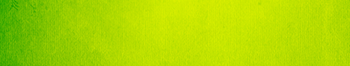
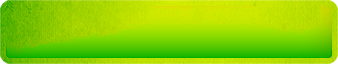
27

diff --git a/css/style5.css b/css/style5.css
@@ -1,2 +1,2 @@
-.clear{clear:both}.df-container{max-width:1210px;width:100%;margin:0 auto;text-align:center}.df-cap1{text-align:center;font-family:'Exo2-Bold';font-size:24px;color:#010101;letter-spacing:0.1px;margin-bottom:24px;text-transform:uppercase}.df-cap2{text-align:center;font-family:'Exo2-Regular';font-size:18px;color:#000000;line-height:25px;letter-spacing:0.2px;margin-bottom:37px;text-transform:uppercase}.df-must-all_view{display:inline-block;max-width:405px;margin-left:-12px;text-align:left}.df-view2{margin-top:-10px}.df-view2 .df-must__txt_view{margin-top:0}.df-must_view{vertical-align:top;display:inline-block;max-width:397px;width:100%;border-bottom:1px solid #e9e9e9;min-height:219px;padding:19px 0px 0 22px;margin-bottom:-3px}.df-last{border-right:none}.df-must__img_view{float:left;margin-right:10px;width:90px;vertical-align:top;margin:0 auto;margin-right:12px}.df-must__txt_view,.df-txt_view{vertical-align:top;float:left;font-size:15px;color:#000000;font-family:'Exo2-Regular';line-height:22px;letter-spacing:0.1px;max-width:265px;width:100%;margin-top:-7px;padding-left:1px}.df-must__txt_view strong,.df-txt_view strong{color:#bd040d;font-family:'Exo2-Bold'}.df-must-txt-box_view h4{font-family:'Exo2-Bold';font-size:18px;color:#000000;letter-spacing:0.2px;line-height:25px;text-align:center;margin:17px 0 20px 0}.df-must-txt-box_left_view{max-width:567px;width:100%;margin:0 auto;border:7px solid #f6f6f7;position:relative}.df-must-txt-box_left__img_view{height:320px;max-width:555px;width:100%;position:relative}.df-must-txt-box_left__img_view img{width:100%;height:auto;position:absolute;top:45%;left:50%;transform:translate(-50%, -50%)}.df-right,.df-left{position:absolute;right:7px;top:50%;transform:translate(0, -50%);background:url("../img/df-right.png") no-repeat center;width:50px;height:50px;border-radius:50%}.df-left{left:7px;background:url("../img/df-left.png") no-repeat center}.df-must-txt-box__right_view{max-width:580px;width:100%;margin:0 auto;padding:20px 10px;text-align:center}.df-must-txt-box__right_view p{font-size:15px;color:#000000;font-family:'Exo2-Regular';letter-spacing:0.1px;line-height:26px;text-align:left}.df-must-txt-box__right_view p strong{font-family:'Exo2-Bold'}.df-must-txt-box__right_view span{display:inline-block;text-align:center;font-size:15px;color:#000000;font-family:'Exo2-Bold';letter-spacing:0.2px;line-height:25px;margin:25px 0 20px 0}.df-link{font-size:22px;line-height:25px;font-family:'Exo2-Bold';color:#ffffff;display:inline-block;text-transform:uppercase;background-size:cover;border-radius:5px;padding:20px 10px 10px 10px;text-shadow:1px 1px #70aa0a,1px 1px #70aa0a,-1px -1px #70aa0a,-1px -1px #70aa0a,-1px 1px #70aa0a,1px -1px #70aa0a,-1px 1px #70aa0a,0px -1px #70aa0a,0px 0px 0px rgba(0,0,0,0.3),0px 0px 0px rgba(0,0,0,0.3),0px 0px 0px rgba(0,0,0,0.3),0px 0px 0px rgba(0,0,0,0.3);position:relative;z-index:100;min-height:90px}.df-mustlink{max-width:460px !important;padding:14px 0px 60px 0px;overflow:hidden;border-radius:7px}.df-not-end__leftbox_view{max-width:700px;width:100%;margin:0 auto;padding-left:10px;margin-top:30px}.df-not-end__block_view{display:block}.df-not-end__img1_view{width:100px;float:left;margin:0 auto}.df-txt_view{text-align:left;max-width:290px;margin-bottom:15px;float:left;width:100%;padding:10px 0px 0 6px}.df-txt_view span{font-size:14px;font-family:'Exo2-Bold';color:#000;line-height:22px;letter-spacing:0.2px;text-transform:uppercase;margin-bottom:8px;display:inline-block}.df-padiings{padding:0px 14px 0 7px}.df-padiings2{padding:19px 12px 0 7px}.df-not-end__rightbox_view{max-width:490px;width:100%;margin:0 auto;clear:both}.df-not-end__rightbox_view h4{font-size:15px;color:#3e3e3e;font-family:'Exo2-Bold';line-height:25px;text-transform:uppercase;letter-spacing:0.2px}.df-not-end__img_view{margin-bottom:25px;padding:11px;height:auto}.df-not-end__img_view div{margin:0 auto;max-width:471px;width:100%}.df-not-end__img_view div img{max-width:455px;width:100%;height:200px;top:8px;left:8px;padding:11px 17px}.df-not-end__h3_view{font-family:'Exo2-Bold';font-size:19px;line-height:22px;letter-spacing:0.2px;text-transform:uppercase;text-align:center;color:#bd040d;margin-bottom:20px}.df-padding{padding:25px 30px !important}.df-stop-give_view{background-color:#fff8ff}.df-stop-give__img_view{display:inline-block;max-width:310px;width:100%;height:220px}.df-stop-give__img_view img{width:100%;height:auto}.df-stop-give__txt_view{font-size:15px;color:#000000;line-height:24px;letter-spacing:0.2px;font-family:'Exo2-Regular';width:85%;display:inline-block;text-align:left;vertical-align:top}.df-stop-give__txt_view strong{font-family:'Exo2-Bold'}.df-stop-give__pluses_view{text-align:center;margin-top:10px;padding-left:4px}.df-stop-give__pluses_view h4{font-size:15px;color:#000000;line-height:23px;letter-spacing:0.2px;font-family:'Exo2-Bold';margin-bottom:19px}.df-stop-give__pluses_view span{font-size:15px;color:#000000;line-height:30px;letter-spacing:0.2px;text-align:left;font-family:'Exo2-Regular';display:block;margin-bottom:3px;padding-left:36px;background-image:url("../img/df-galka.png");background-repeat:no-repeat;background-position:left center}.df-stop-give__2blocks_view h3{font-size:13px;line-height:25px;color:#010101;font-family:'Exo2-Bold';letter-spacing:0.2px;text-transform:uppercase;margin:10px 0 -10px 0;text-align:center}.df-stop-give__L_view{max-height:440px;width:100%;height:100%;display:inline-block;margin-top:85px;margin-bottom:50px}.df-stop-give__L_view #demo img{max-width:570px;width:100%;height:440px}.df-shadow2{width:100%;opacity:0.5}.df-stop-give__R_view{display:inline-block;max-width:590px;width:100%;text-align:left;vertical-align:top;padding-left:10px;text-align:center;position:relative}.df-stop-give__R_view h3{font-size:22px;color:#010101;font-family:'Exo2-Bold';letter-spacing:0.2px;text-transform:uppercase;margin:0 0 26px 12px;text-align:left}.df-stop-give__R_view h3 strong{color:#bd040d}.df-stop-give__R_view span{display:block;text-align:left;font-family:'Exo2-Regular';padding-left:50px;background-image:url("../img/df-galka2.png");background-repeat:no-repeat;background-position:left top 2px;font-size:16px;color:#000000;line-height:29px;letter-spacing:0.2px;margin-bottom:11px}.df-link{margin-top:20px;font-size:25px;line-height:25px;max-width:390px;width:100%;display:inline-block;background-image:url("../img/df-link-shadow.png");background-repeat:no-repeat;background-position:center top;border:none;background-color:transparent}.df-lookcap{padding:0 20px;line-height:52px;margin-bottom:31px}.df-lookcap strong{color:#bd040d}.df-look_view{text-align:left;padding:0px 20px 0 22px;margin-bottom:21px}.df-look__img_view{font-size:15px;color:#000000;line-height:25px;letter-spacing:0.2px;font-family:'Exo2-Regular'}.df-look__img_view strong{font-family:'Exo2-Bold'}.df-look__img_view img{display:inline-block;margin-right:10px;width:20px;height:21px;vertical-align:text-bottom}.df-all{text-align:left}.df-shadow-B{width:100%;height:70px;opacity:0.5}.df-video_view{max-width:625px;width:100%;height:375px;display:inline-block;padding:0 20px;position:relative;max-height:375px}.df-video_view h3{margin:36px 0 26px 12px;font-size:22px;color:#010101;font-family:'Exo2-Bold';letter-spacing:0.2px;text-transform:uppercase;margin:36px 0 26px 12px;text-align:left}.df-video_view h3 strong{color:#bd040d}.df-shadow3{margin:20px 0 10px 0;max-width:625px;width:100%;opacity:0.5}.df-look-R{max-width:500px;display:inline-block;position:relative}.df-look-R h3{margin-bottom:37px}.df-look-R span{margin-left:10px}.df-left-shadow{position:absolute;left:-57px;top:0px;display:none}.df-marg2{margin-top:30px}.df-messege{max-width:970px;width:100%;text-align:center;margin:0 auto;background-image:url("../img/df-popupbg2.jpg");background-repeat:no-repeat;background-position:center top;background-size:cover;border:4px solid #9a7715;padding:90px 0;position:relative}.df-messege h2{text-transform:uppercase;font-size:24px;color:#1e1601;margin-bottom:10px}.df-messege span{font-size:17px;color:#1e1601;line-height:25px;letter-spacing:0.2px;font-family:'Exo2-Regular'}.df-cloself{position:absolute;right:10px;top:10px;width:17px;height:17px;cursor:pointer}.df-call{max-width:977px;width:100%;margin:0 auto;border:1px solid #e2e2e2;text-align:center;display:none}.df-call__L{max-width:600px;width:100%;display:inline-block;padding:45px 10px 29px 10px;background-color:#f6f6f7;vertical-align:top}.df-call__L h3{font-size:23px;color:#1e1601;line-height:25px;letter-spacing:0.2px;font-family:'Exo2-Bold';text-transform:uppercase;margin-bottom:25px}.df-call__L .dfspan11{font-size:19px;color:#1e1601;line-height:25px;letter-spacing:0.2px;font-family:'Exo2-Regular';display:inline-block;margin-bottom:25px}.df-call__L .dfspan11 strong{font-size:25px;color:#bd040d;font-family:'Exo2-Bold'}.df-call__img{border:5px solid #e4e4e4;max-width:533px;height:430px;padding-top:35px;width:100%;text-align:center;background-color:#fff}.df-call__img img{display:inline-block}.df-call__R{max-width:370px;width:100%;display:inline-block;padding:20px 0 19px 0px}.df-call__R input[type="text"],.df-call__R input[type="email"]{border:2px solid #e4e4e4;max-width:333px;width:100%;min-height:43px;display:inline-block;font-size:18px;color:#b9b9b9;padding-left:15px;margin-bottom:3px;font-family:'Exo2-Regular'}.df-call-span,.df-call-span2{font-size:12px;color:#1e1601;line-height:25px;letter-spacing:0.2px;font-family:'Exo2-Bold';text-transform:uppercase;display:inline-block;margin-bottom:24px;margin-left:17px;text-align:center}.df-linkpopup{margin-top:20px;font-size:25px;line-height:23px;color:#616161;text-transform:uppercase;max-width:390px;font-family:'Exo2-Bold';width:100%;display:inline-block;background-image:url("../img/df-linkpopup.png");background-repeat:no-repeat;background-position:center top;text-align:center;padding:20px 0 40px 0}.df-call-span2{font-size:15px;font-family:'Exo2-Regular';text-transform:none}.df-poplink{padding:17px 0px 40px 0 !important;background-size:contain;text-align:center;margin-left:0px !important;z-index:1}.az-select{border:2px solid #cbd1d6;position:relative;cursor:pointer;font-size:18px;color:#fff;line-height:25px;letter-spacing:0.2px;background-color:#c2c2c2;max-width:333px;width:100%;min-height:43px;font-family:'Exo2-Regular';margin:0 auto;margin-bottom:3px}.az-select select{height:36px;width:100%;border:none;background:transparent;outline:none;padding:0 15px;letter-spacing:0.02em;font-family:'Exo2-Regular';cursor:pointer;-webkit-appearance:none;-moz-appearance:none}.az-select select::-ms-expand{display:none}.az-options{display:none;top:calc(100% + 2px);left:-2px;width:calc(100% + 4px);position:absolute;background-color:#c2c2c2;z-index:6}div[data-val]{font-size:14px;font-family:'Exo2-Regular';color:#fff;padding:0 15px;line-height:30px;letter-spacing:0.02em;cursor:pointer;text-align:left}div[data-val]:hover{background:rgba(255,255,255,0.2)}.df-buy-product{width:122px;height:37px;padding:5px 5px 5px 5px;font-size:19px;font-family:'Exo2-Regular';margin-bottom:4px;display:table;border:1px solid #1e1601;display:inline-block;vertical-align:top}.df-buy-product .df-number{text-align:center;border-radius:3px;display:inline-block;display:table-cell;vertical-align:middle;width:45%;color:#1e1601;transition:background 0.5s;vertical-align:middle;user-select:none;-moz-user-select:none;-o-user-select:none}.df-buy-product .df-number span{color:transparent;padding:0 1px;cursor:pointer;vertical-align:top}.df-buy-product .df-number input{outline:none;border:none;width:20px;text-align:center;background:none;width:70px}.left{background-image:url("../img/df-leftpop.png");background-position:left center;background-repeat:no-repeat}.right{background-image:url("../img/df-rightpop.png");background-position:right center;background-repeat:no-repeat}.df-contact{border:1px solid #e2e2e2;max-width:470px;background-size:cover;text-align:center;max-width:472px;width:100%;margin:0 auto}.df-contact h2{text-transform:uppercase;font-size:24px;color:#1e1601;margin-bottom:10px}.df-contact span{text-transform:uppercase;font-size:21px;color:#1e1601;line-height:25px;letter-spacing:0.2px;font-family:'Exo2-Regular'}.df-cont{background-image:url("../img/df-popupbg3.jpg");background-repeat:no-repeat;background-position:center top;background-size:cover;padding:27px 0;position:relative}.df-inputscont{max-width:100%;padding:0 10px}.df-inputscont input{width:100%;max-width:unset;margin:0 0 3px 0}.df-question textarea{border:2px solid #e4e4e4;width:100%;font-size:18px;color:#b9b9b9;padding-left:15px;font-family:'Exo2-Regular';resize:none}.df-otziv{max-width:975px;width:100%;margin:0 auto;text-align:center;border:1px solid #e2e2e2}.df-otziv .df-messege{border:none;max-width:unset;background-size:cover;margin-bottom:15px}.df-inpoz{max-width:445px;width:100%;display:inline-block}.df-inpoz input{border:2px solid #e4e4e4;width:100%;min-height:43px;display:inline-block;font-size:18px;color:#b9b9b9;padding-left:15px;margin-bottom:3px;font-family:'Exo2-Regular'}.df-Rbox{max-width:465px;width:100%;display:inline-block}.df-otziv-span{vertical-align:middle;display:inline-block}.df-firstspan{font-size:18px;color:#6c6c6c;font-family:'Exo2-Regular';letter-spacing:0.2px;line-height:25px;display:inline-block;margin-bottom:10px}.df-littleinp,.df-littleinp2{border:2px solid #e4e4e4;width:150px;min-height:43px;display:inline-block;font-size:18px;color:#b9b9b9;padding-left:15px;margin-bottom:3px;font-family:'Exo2-Regular'}.df-littleinp2{width:285px}.df-confident{max-width:975px;width:100%;margin:0 auto;text-align:center;border:1px solid #e2e2e2}.df-confident .df-messege{padding:20px 0 15px 0;min-height:unset;max-width:unset;border:none;max-width:unset;background-size:cover;margin-bottom:15px}.df-confid-txt{text-align:left;padding:15px 20px 0 20px}.df-confid-txt p{font-size:18px;color:#818181;font-family:'Exo2-Regular';letter-spacing:0.2px;line-height:25px;margin-bottom:22px}.df-viski{max-width:975px;width:100%;margin:0 auto;text-align:center;border:1px solid #e2e2e2;padding-bottom:30px}.df-viski .df-messege{padding:20px 0 15px 0;min-height:unset;max-width:unset;border:none;max-width:unset;background-size:cover;margin-bottom:25px}.df-viski-L{max-width:325px;height:325px;vertical-align:top;width:100%;border:3px solid #c7c7c7;display:inline-block}.df-viski-R{max-width:590px;width:100%;display:inline-block;font-size:18px;color:#818181;font-family:'Exo2-Regular';letter-spacing:0.2px;line-height:25px;text-align:left;padding:0 10px 0 10px}.df-viski-R p strong{font-size:20px;color:#bf1b1b;text-transform:uppercase;font-family:'Exo2-Bold'}.df-viski-R span{display:block;background-image:url("../img/df-tire.png");background-repeat:no-repeat;background-position:left top 13px;padding-left:17px}#mask{position:absolute;left:0;top:0;z-index:9000;background-color:#000;width:100%;height:100%;display:none}.window{display:none;position:absolute;left:0;top:0;z-index:9998;background:white}.window .form-wrap-main{border:1px solid grey;background:#fff;border-radius:10px;padding:10px}.df-thankstovar{text-align:center}.df-thankstovar h2{font-size:34px;line-height:74px;color:#000000;text-transform:uppercase;margin:10px 0}.df-tovar{max-width:570px;width:100%;display:inline-block;padding:15px 10px;border:2px solid #dcdcdc;text-align:center;margin-top:15px}.df-tovar__img{width:160px;height:160px;display:inline-block;border:2px solid #c8944b}.df-tovar__txt{font-family:'Exo2-Regular';font-size:14px;line-height:20px;color:#000000;max-width:370px;display:inline-block;vertical-align:top;padding-left:12px;text-align:left}.df-butoon{width:340px;min-height:65px;position:relative;margin:100px 0;text-align:center;border:3px solid rgba(255,255,255,0.2);border-image:url("../img/dfbgfon.png") 2 round round;border-radius:10px;overflow:hidden}.df-butlink{position:absolute;z-index:100;left:0;top:0}.df-imgbutoon{width:100%;height:auto;position:absolute;display:inline-block;z-index:1;left:0;top:0}@media only screen and (min-width: 480px){.df-not-end__img1_view{float:left}.df-txt_view{float:left;max-width:590px;margin-bottom:0px}}@media only screen and (min-width: 768px){.df-not-end__img_view{background-color:white;background-image:url("../img/df-shadow.png");background-repeat:no-repeat;background-position:center center;background-size:cover}.df-not-end__img_view div{height:215px;position:relative}.df-not-end__img_view div img{position:absolute}.df-padding{padding:19px 0 25px 0px !important}.df-shadow2,.df-shadow3,.df-shadow-B{display:none}.df-stop-give__img_view{width:175px;height:130px}.df-stop-give__txt_view{padding:3px 20px 0 23px}.df-stop-give__pluses_view{margin-top:-17px}.df-stop-give__2blocks_view{text-align:left}.df-stop-give__2blocks_view h3{font-size:22px;margin:31px 0 42px 12px;text-align:left}.df-stop-give__L_view{margin-left:-6px;max-width:570px}.df-stop-give__R_view{padding-left:39px;background-color:#fbfbfb}.df-stop-give__R_view h3{margin:36px 0 26px 12px}.df-messege{background-image:url("../img/df-popupbg.jpg");padding:40px 0 40px 0;background-size:unset}.df-messege h2{font-size:43px}.df-messege span{font-size:23px}.df-call__L{padding:45px 0 29px 27px}.az-select{margin:0 0 3px 27px}.df-Rbox{margin-left:30px}.az-select{margin:0 0 3px 19px}.df-cont{background-size:unset}.df-viski-R{margin-left:10px}}@media only screen and (min-width: 992px){.df-cap1{font-size:36px}.df-link{padding:17px 30px 45px 30px;margin-left:19px}.df-mustlink{padding:25px 30px 70px 30px}.df-must-txt-box_left_view{float:left}.df-must-txt-box__right_view{float:left;padding:20px 0 0 35px}.df-must-txt-box__right_view span{margin:25px 0 16px 0;padding:0 50px 0 61px}.df-must-txt-box_view h4{margin:27px 0px 5px 61px}.df-must-all_view{border-right:1px solid #e9e9e9}.df-not-end__leftbox_view{float:left}.df-not-end__rightbox_view{clear:none;float:left;margin:-13px 0 0 -11px}.df-txt_view{padding:10px 14px 0 6px}.df-video_view{margin:25px 17px 0 25px;padding:0}.df-look-R{margin-top:25px}.df-left-shadow{display:block}}@media only screen and (min-width: 1248px){.df-must-txt-box_left_view:before,.df-must-txt-box_left_view:after{z-index:-1;position:absolute;content:"";bottom:5px;left:15px;width:50%;right:0;top:96%;max-width:555px;background:#fff;box-shadow:-20px -3px 40px 9px #777;transform:rotate(-5deg)}.df-must-txt-box_left_view:after{transform:rotate(5deg);right:10px;left:auto;box-shadow:20px -3px 40px 9px #777}.df-thankstovar .df-tovar:last-child{margin-left:30px;margin-top:0px}}
+.clear{clear:both}.df-container{max-width:1210px;width:100%;margin:0 auto;text-align:center}.df-cap1{text-align:center;font-family:'Exo2-Bold';font-size:24px;color:#010101;letter-spacing:0.1px;margin-bottom:24px;text-transform:uppercase}.df-cap2{text-align:center;font-family:'Exo2-Regular';font-size:18px;color:#000000;line-height:25px;letter-spacing:0.2px;margin-bottom:37px;text-transform:uppercase}.df-must-all_view{display:inline-block;max-width:405px;margin-left:-12px;text-align:left}.df-view2{margin-top:-10px}.df-view2 .df-must__txt_view{margin-top:0}.df-must_view{vertical-align:top;display:inline-block;max-width:397px;width:100%;border-bottom:1px solid #e9e9e9;min-height:219px;padding:19px 0px 0 22px;margin-bottom:-3px}.df-last{border-right:none}.df-must__img_view{float:left;margin-right:10px;width:90px;vertical-align:top;margin:0 auto;margin-right:12px}.df-must__txt_view,.df-txt_view{vertical-align:top;float:left;font-size:15px;color:#000000;font-family:'Exo2-Regular';line-height:22px;letter-spacing:0.1px;max-width:265px;width:100%;margin-top:-7px;padding-left:1px}.df-must__txt_view strong,.df-txt_view strong{color:#bd040d;font-family:'Exo2-Bold'}.df-must-txt-box_view h4{font-family:'Exo2-Bold';font-size:18px;color:#000000;letter-spacing:0.2px;line-height:25px;text-align:center;margin:17px 0 20px 0}.df-must-txt-box_left_view{max-width:567px;width:100%;margin:0 auto;border:7px solid #f6f6f7;position:relative}.df-must-txt-box_left__img_view{height:320px;max-width:555px;width:100%;position:relative}.df-must-txt-box_left__img_view img{width:100%;height:auto;position:absolute;top:45%;left:50%;transform:translate(-50%, -50%)}.df-right,.df-left{position:absolute;right:7px;top:50%;transform:translate(0, -50%);background:url("../img/df-right.png") no-repeat center;width:50px;height:50px;border-radius:50%}.df-left{left:7px;background:url("../img/df-left.png") no-repeat center}.df-must-txt-box__right_view{max-width:580px;width:100%;margin:0 auto;padding:20px 10px;text-align:center}.df-must-txt-box__right_view p{font-size:15px;color:#000000;font-family:'Exo2-Regular';letter-spacing:0.1px;line-height:26px;text-align:left}.df-must-txt-box__right_view p strong{font-family:'Exo2-Bold'}.df-must-txt-box__right_view span{display:inline-block;text-align:center;font-size:15px;color:#000000;font-family:'Exo2-Bold';letter-spacing:0.2px;line-height:25px;margin:25px 0 20px 0}.df-link{font-size:22px;line-height:25px;font-family:'Exo2-Bold';color:#ffffff;display:inline-block;text-transform:uppercase;background-size:cover;border-radius:5px;padding:20px 10px 10px 10px;text-shadow:1px 1px #70aa0a,1px 1px #70aa0a,-1px -1px #70aa0a,-1px -1px #70aa0a,-1px 1px #70aa0a,1px -1px #70aa0a,-1px 1px #70aa0a,0px -1px #70aa0a,0px 0px 0px rgba(0,0,0,0.3),0px 0px 0px rgba(0,0,0,0.3),0px 0px 0px rgba(0,0,0,0.3),0px 0px 0px rgba(0,0,0,0.3);position:relative;z-index:100;min-height:90px}.df-mustlink{max-width:460px !important;padding:14px 0px 60px 0px;overflow:hidden;border-radius:7px}.df-not-end__leftbox_view{max-width:700px;width:100%;margin:0 auto;padding-left:10px;margin-top:30px}.df-not-end__block_view{display:block}.df-not-end__img1_view{width:100px;float:left;margin:0 auto}.df-txt_view{text-align:left;max-width:290px;margin-bottom:15px;float:left;width:100%;padding:10px 0px 0 6px}.df-txt_view span{font-size:14px;font-family:'Exo2-Bold';color:#000;line-height:22px;letter-spacing:0.2px;text-transform:uppercase;margin-bottom:8px;display:inline-block}.df-padiings{padding:0px 14px 0 7px}.df-padiings2{padding:19px 12px 0 7px}.df-not-end__rightbox_view{max-width:490px;width:100%;margin:0 auto;clear:both}.df-not-end__rightbox_view h4{font-size:15px;color:#3e3e3e;font-family:'Exo2-Bold';line-height:25px;text-transform:uppercase;letter-spacing:0.2px}.df-not-end__img_view{margin-bottom:25px;padding:11px;height:auto}.df-not-end__img_view div{margin:0 auto;max-width:471px;width:100%}.df-not-end__img_view div img{max-width:455px;width:100%;height:200px;top:8px;left:8px;padding:11px 17px}.df-not-end__h3_view{font-family:'Exo2-Bold';font-size:19px;line-height:22px;letter-spacing:0.2px;text-transform:uppercase;text-align:center;color:#bd040d;margin-bottom:20px}.df-padding{padding:25px 30px !important}.df-stop-give_view{background-color:#fff8ff}.df-stop-give__img_view{display:inline-block;max-width:310px;width:100%;height:220px}.df-stop-give__img_view img{width:100%;height:auto}.df-stop-give__txt_view{font-size:15px;color:#000000;line-height:24px;letter-spacing:0.2px;font-family:'Exo2-Regular';width:85%;display:inline-block;text-align:left;vertical-align:top}.df-stop-give__txt_view strong{font-family:'Exo2-Bold'}.df-stop-give__pluses_view{text-align:center;margin-top:10px;padding-left:4px}.df-stop-give__pluses_view h4{font-size:15px;color:#000000;line-height:23px;letter-spacing:0.2px;font-family:'Exo2-Bold';margin-bottom:19px}.df-stop-give__pluses_view span{font-size:15px;color:#000000;line-height:30px;letter-spacing:0.2px;text-align:left;font-family:'Exo2-Regular';display:block;margin-bottom:3px;padding-left:36px;background-image:url("../img/df-galka.png");background-repeat:no-repeat;background-position:left center}.df-stop-give__2blocks_view h3{font-size:13px;line-height:25px;color:#010101;font-family:'Exo2-Bold';letter-spacing:0.2px;text-transform:uppercase;margin:10px 0 -10px 0;text-align:center}.df-stop-give__L_view{max-height:440px;width:100%;height:100%;display:inline-block;margin-top:85px;margin-bottom:50px}.df-stop-give__L_view #demo img{max-width:570px;width:100%;height:440px}.df-shadow2{width:100%;opacity:0.5}.df-stop-give__R_view{display:inline-block;max-width:590px;width:100%;text-align:left;vertical-align:top;padding-left:10px;text-align:center;position:relative}.df-stop-give__R_view h3{font-size:22px;color:#010101;font-family:'Exo2-Bold';letter-spacing:0.2px;text-transform:uppercase;margin:0 0 26px 12px;text-align:left}.df-stop-give__R_view h3 strong{color:#bd040d}.df-stop-give__R_view span{display:block;text-align:left;font-family:'Exo2-Regular';padding-left:50px;background-image:url("../img/df-galka2.png");background-repeat:no-repeat;background-position:left top 2px;font-size:16px;color:#000000;line-height:29px;letter-spacing:0.2px;margin-bottom:11px}.df-link{margin-top:20px;font-size:25px;line-height:25px;max-width:390px;width:100%;display:inline-block;background-image:url("../img/df-link-shadow.png");background-repeat:no-repeat;background-position:center top;border:none;background-color:transparent}.df-lookcap{padding:0 20px;line-height:52px;margin-bottom:31px}.df-lookcap strong{color:#bd040d}.df-look_view{text-align:left;padding:0px 20px 0 22px;margin-bottom:21px}.df-look__img_view{font-size:15px;color:#000000;line-height:25px;letter-spacing:0.2px;font-family:'Exo2-Regular'}.df-look__img_view strong{font-family:'Exo2-Bold'}.df-look__img_view img{display:inline-block;margin-right:10px;width:20px;height:21px;vertical-align:text-bottom}.df-all{text-align:left}.df-shadow-B{width:100%;height:70px;opacity:0.5}.df-video_view{max-width:625px;width:100%;height:375px;display:inline-block;padding:0 20px;position:relative;max-height:375px}.df-video_view h3{margin:36px 0 26px 12px;font-size:22px;color:#010101;font-family:'Exo2-Bold';letter-spacing:0.2px;text-transform:uppercase;margin:36px 0 26px 12px;text-align:left}.df-video_view h3 strong{color:#bd040d}.df-shadow3{margin:20px 0 10px 0;max-width:625px;width:100%;opacity:0.5}.df-look-R{max-width:500px;display:inline-block;position:relative}.df-look-R h3{margin-bottom:37px}.df-look-R span{margin-left:10px}.df-left-shadow{position:absolute;left:-57px;top:0px;display:none}.df-marg2{margin-top:30px}.df-messege{max-width:970px;width:100%;text-align:center;margin:0 auto;background-image:url("../img/df-popupbg2.jpg");background-repeat:no-repeat;background-position:center top;background-size:cover;border:4px solid #9a7715;padding:90px 0;position:relative}.df-messege h2{text-transform:uppercase;font-size:24px;color:#1e1601;margin-bottom:10px}.df-messege span{font-size:17px;color:#1e1601;line-height:25px;letter-spacing:0.2px;font-family:'Exo2-Regular'}.df-cloself{position:absolute;right:10px;top:10px;width:17px;height:17px;cursor:pointer}.df-call{max-width:977px;width:100%;margin:0 auto;border:1px solid #e2e2e2;text-align:center;display:none}.df-call__L{max-width:600px;width:100%;display:inline-block;padding:45px 10px 29px 10px;background-color:#f6f6f7;vertical-align:top}.df-call__L h3{font-size:23px;color:#1e1601;line-height:25px;letter-spacing:0.2px;font-family:'Exo2-Bold';text-transform:uppercase;margin-bottom:25px}.df-call__L .dfspan11{font-size:19px;color:#1e1601;line-height:25px;letter-spacing:0.2px;font-family:'Exo2-Regular';display:inline-block;margin-bottom:25px}.df-call__L .dfspan11 strong{font-size:25px;color:#bd040d;font-family:'Exo2-Bold'}.df-call__img{border:5px solid #e4e4e4;max-width:533px;height:430px;padding-top:35px;width:100%;text-align:center;background-color:#fff}.df-call__img img{display:inline-block}.df-call__R{max-width:370px;width:100%;display:inline-block;padding:20px 0 19px 0px}.df-call__R input[type="text"],.df-call__R input[type="email"]{border:2px solid #e4e4e4;max-width:333px;width:100%;min-height:43px;display:inline-block;font-size:18px;color:#b9b9b9;padding-left:15px;margin-bottom:3px;font-family:'Exo2-Regular'}.df-call-span,.df-call-span2{font-size:12px;color:#1e1601;line-height:25px;letter-spacing:0.2px;font-family:'Exo2-Bold';text-transform:uppercase;display:inline-block;margin-bottom:24px;margin-left:17px;text-align:center}.df-linkpopup{margin-top:20px;font-size:25px;line-height:23px;color:#616161;text-transform:uppercase;max-width:390px;font-family:'Exo2-Bold';width:100%;display:inline-block;background-image:url("../img/df-linkpopup.png");background-repeat:no-repeat;background-position:center top;text-align:center;padding:20px 0 40px 0}.df-call-span2{font-size:15px;font-family:'Exo2-Regular';text-transform:none}.df-poplink{padding:17px 0px 40px 0 !important;background-size:contain;text-align:center;margin-left:0px !important;z-index:1}.az-select{border:2px solid #cbd1d6;position:relative;cursor:pointer;font-size:18px;color:#fff;line-height:25px;letter-spacing:0.2px;background-color:#c2c2c2;max-width:333px;width:100%;min-height:43px;font-family:'Exo2-Regular';margin:0 auto;margin-bottom:3px}.az-select select{height:36px;width:100%;border:none;background:transparent;outline:none;padding:0 15px;letter-spacing:0.02em;font-family:'Exo2-Regular';cursor:pointer;-webkit-appearance:none;-moz-appearance:none}.az-select select::-ms-expand{display:none}.az-options{display:none;top:calc(100% + 2px);left:-2px;width:calc(100% + 4px);position:absolute;background-color:#c2c2c2;z-index:6}div[data-val]{font-size:14px;font-family:'Exo2-Regular';color:#fff;padding:0 15px;line-height:30px;letter-spacing:0.02em;cursor:pointer;text-align:left}div[data-val]:hover{background:rgba(255,255,255,0.2)}.df-buy-product{width:122px;height:37px;padding:5px 5px 5px 5px;font-size:19px;font-family:'Exo2-Regular';margin-bottom:4px;display:table;border:1px solid #1e1601;display:inline-block;vertical-align:top}.df-buy-product .df-number{text-align:center;border-radius:3px;display:inline-block;display:table-cell;vertical-align:middle;width:45%;color:#1e1601;transition:background 0.5s;vertical-align:middle;user-select:none;-moz-user-select:none;-o-user-select:none}.df-buy-product .df-number span{color:transparent;padding:0 1px;cursor:pointer;vertical-align:top}.df-buy-product .df-number input{outline:none;border:none;width:20px;text-align:center;background:none;width:70px}.left{background-image:url("../img/df-leftpop.png");background-position:left center;background-repeat:no-repeat}.right{background-image:url("../img/df-rightpop.png");background-position:right center;background-repeat:no-repeat}.df-contact{border:1px solid #e2e2e2;max-width:470px;background-size:cover;text-align:center;max-width:472px;width:100%;margin:0 auto}.df-contact h2{text-transform:uppercase;font-size:24px;color:#1e1601;margin-bottom:10px}.df-contact span{text-transform:uppercase;font-size:21px;color:#1e1601;line-height:25px;letter-spacing:0.2px;font-family:'Exo2-Regular'}.df-cont{background-image:url("../img/df-popupbg3.jpg");background-repeat:no-repeat;background-position:center top;background-size:cover;padding:27px 0;position:relative}.df-inputscont{max-width:100%;padding:0 10px}.df-inputscont input{width:100%;max-width:unset;margin:0 0 3px 0}.df-question textarea{border:2px solid #e4e4e4;width:100%;font-size:18px;color:#b9b9b9;padding-left:15px;font-family:'Exo2-Regular';resize:none}.df-otziv{max-width:975px;width:100%;margin:0 auto;text-align:center;border:1px solid #e2e2e2}.df-otziv .df-messege{border:none;max-width:unset;background-size:cover;margin-bottom:15px}.df-inpoz{max-width:445px;width:100%;display:inline-block}.df-inpoz input{border:2px solid #e4e4e4;width:100%;min-height:43px;display:inline-block;font-size:18px;color:#b9b9b9;padding-left:15px;margin-bottom:3px;font-family:'Exo2-Regular'}.df-Rbox{max-width:465px;width:100%;display:inline-block}.df-otziv-span{vertical-align:middle;display:inline-block}.df-firstspan{font-size:18px;color:#6c6c6c;font-family:'Exo2-Regular';letter-spacing:0.2px;line-height:25px;display:inline-block;margin-bottom:10px}.df-littleinp,.df-littleinp2{border:2px solid #e4e4e4;width:150px;min-height:43px;display:inline-block;font-size:18px;color:#b9b9b9;padding-left:15px;margin-bottom:3px;font-family:'Exo2-Regular'}.df-littleinp2{width:285px}.df-confident{max-width:975px;width:100%;margin:0 auto;text-align:center;border:1px solid #e2e2e2}.df-confident .df-messege{padding:20px 0 15px 0;min-height:unset;max-width:unset;border:none;max-width:unset;background-size:cover;margin-bottom:15px}.df-confid-txt{text-align:left;padding:15px 20px 0 20px}.df-confid-txt p{font-size:18px;color:#818181;font-family:'Exo2-Regular';letter-spacing:0.2px;line-height:25px;margin-bottom:22px}.df-viski{max-width:975px;width:100%;margin:0 auto;text-align:center;border:1px solid #e2e2e2;padding-bottom:30px}.df-viski .df-messege{padding:20px 0 15px 0;min-height:unset;max-width:unset;border:none;max-width:unset;background-size:cover;margin-bottom:25px}.df-viski-L{max-width:325px;height:325px;vertical-align:top;width:100%;border:3px solid #c7c7c7;display:inline-block}.df-viski-R{max-width:590px;width:100%;display:inline-block;font-size:18px;color:#818181;font-family:'Exo2-Regular';letter-spacing:0.2px;line-height:25px;text-align:left;padding:0 10px 0 10px}.df-viski-R p strong{font-size:20px;color:#bf1b1b;text-transform:uppercase;font-family:'Exo2-Bold'}.df-viski-R span{display:block;background-image:url("../img/df-tire.png");background-repeat:no-repeat;background-position:left top 13px;padding-left:17px}#mask{position:absolute;left:0;top:0;z-index:9000;background-color:#000;width:100%;height:100%;display:none}.window{display:none;position:absolute;left:0;top:0;z-index:9998;background:white}.window .form-wrap-main{border:1px solid grey;background:#fff;border-radius:10px;padding:10px}.df-thankstovar{text-align:center}.df-thankstovar h2{font-size:34px;line-height:74px;color:#000000;text-transform:uppercase;margin:10px 0}.df-tovar{max-width:570px;width:100%;display:inline-block;padding:15px 10px;border:2px solid #dcdcdc;text-align:center;margin-top:15px}.df-tovar__img{width:160px;height:160px;display:inline-block;border:2px solid #c8944b}.df-tovar__txt{font-family:'Exo2-Regular';font-size:14px;line-height:20px;color:#000000;max-width:370px;display:inline-block;vertical-align:top;padding-left:12px;text-align:left}.df-butn{border-radius:10px;max-width:400px;min-height:65px;position:relative;margin:50px auto;text-align:center}.df-butn:before,.df-butn:after{z-index:-1;position:absolute;content:"";bottom:10%;left:10px;width:50%;top:80%;max-width:300px;background:#000;box-shadow:-14px 7px 30px 9px #777;transform:rotate(-5deg);border-radius:8%}.df-butn:after{transform:rotate(5deg);box-shadow:14px 7px 30px 9px #777;right:10px;left:auto}.df-butlink{position:absolute;z-index:100;left:50%;top:50%;color:#fff;transform:translate(-50%, -50%);font-size:22px;line-height:25px;font-family:'Exo2-Bold';letter-spacing:0.2px;text-transform:uppercase;display:inline-block;width:100%;text-shadow:1px 1px #70aa0a,1px 1px #70aa0a,-1px -1px #70aa0a,-1px -1px #70aa0a,-1px 1px #70aa0a,1px -1px #70aa0a,-1px 1px #70aa0a,0px -1px #70aa0a,0px 0px 0px rgba(0,0,0,0.3),0px 0px 0px rgba(0,0,0,0.3),0px 0px 0px rgba(0,0,0,0.3),0px 0px 0px rgba(0,0,0,0.3)}.df-imgbutoon{width:100%;height:auto;position:absolute;display:inline-block;z-index:1;left:0;top:0}.df-imgbutoon img{width:100%}@media only screen and (min-width: 480px){.df-not-end__img1_view{float:left}.df-txt_view{float:left;max-width:590px;margin-bottom:0px}}@media only screen and (min-width: 768px){.df-not-end__img_view{background-color:white;background-image:url("../img/df-shadow.png");background-repeat:no-repeat;background-position:center center;background-size:cover}.df-not-end__img_view div{height:215px;position:relative}.df-not-end__img_view div img{position:absolute}.df-padding{padding:19px 0 25px 0px !important}.df-shadow2,.df-shadow3,.df-shadow-B{display:none}.df-stop-give__img_view{width:175px;height:130px}.df-stop-give__txt_view{padding:3px 20px 0 23px}.df-stop-give__pluses_view{margin-top:-17px}.df-stop-give__2blocks_view{text-align:left}.df-stop-give__2blocks_view h3{font-size:22px;margin:31px 0 42px 12px;text-align:left}.df-stop-give__L_view{margin-left:-6px;max-width:570px}.df-stop-give__R_view{padding-left:39px;background-color:#fbfbfb}.df-stop-give__R_view h3{margin:36px 0 26px 12px}.df-messege{background-image:url("../img/df-popupbg.jpg");padding:40px 0 40px 0;background-size:unset}.df-messege h2{font-size:43px}.df-messege span{font-size:23px}.df-call__L{padding:45px 0 29px 27px}.az-select{margin:0 0 3px 27px}.df-Rbox{margin-left:30px}.az-select{margin:0 0 3px 19px}.df-cont{background-size:unset}.df-viski-R{margin-left:10px}}@media only screen and (min-width: 992px){.df-cap1{font-size:36px}.df-link{padding:17px 30px 45px 30px;margin-left:19px}.df-mustlink{padding:25px 30px 70px 30px}.df-must-txt-box_left_view{float:left}.df-must-txt-box__right_view{float:left;padding:20px 0 0 35px}.df-must-txt-box__right_view span{margin:25px 0 16px 0;padding:0 50px 0 61px}.df-must-txt-box_view h4{margin:27px 0px 5px 61px}.df-must-all_view{border-right:1px solid #e9e9e9}.df-not-end__leftbox_view{float:left}.df-not-end__rightbox_view{clear:none;float:left;margin:-13px 0 0 -11px}.df-txt_view{padding:10px 14px 0 6px}.df-video_view{margin:25px 17px 0 25px;padding:0}.df-look-R{margin-top:25px}.df-left-shadow{display:block}}@media only screen and (min-width: 1248px){.df-must-txt-box_left_view:before,.df-must-txt-box_left_view:after{z-index:-1;position:absolute;content:"";bottom:5px;left:15px;width:50%;right:0;top:96%;max-width:555px;background:#fff;box-shadow:-20px -3px 40px 9px #777;transform:rotate(-5deg)}.df-must-txt-box_left_view:after{transform:rotate(5deg);right:10px;left:auto;box-shadow:20px -3px 40px 9px #777}.df-thankstovar .df-tovar:last-child{margin-left:30px;margin-top:0px}}
 /*# sourceMappingURL=style5.css.map */

diff --git a/css/style5.scss b/css/style5.scss
@@ -1036,27 +1036,58 @@ div[data-val]:hover{
 	text-align: left;
 }
 
+///////////////////////////////////
 
-
-.df-butoon{
-	width: 340px;
-	min-height: 65px;
-
-	
-	position: relative;
-	margin: 100px 0;
-	text-align: center;
-	border: 3px solid rgba(#fff, 0.2);
-	border-image: url("../img/dfbgfon.png") 2 round round;
+.df-butn{
 	border-radius: 10px;
-	overflow: hidden;
-	
+	// overflow: hidden;
+	max-width: 400px;
+	min-height: 65px;	
+	position: relative;
+	margin: 50px auto;
+	text-align: center;
+}
+.df-butn:before, .df-butn:after{
+	z-index: -1;
+	position: absolute;
+	content: "";
+	// bottom: 12px;
+	bottom: 10%;
+	left: 10px;
+	width: 50%;
+	top: 80%;
+	max-width:300px;
+	background: #000;
+	box-shadow: -14px 7px 30px 9px #777;
+	transform: rotate(-5deg);
+	border-radius: 8%;
+}
+.df-butn:after{
+  transform: rotate(5deg);
+  box-shadow: 14px 7px 30px 9px #777;
+  right: 10px;
+  left: auto;
 }
 .df-butlink{
 	position: absolute;
 	z-index: 100;
-	left:0;
-	top:0;
+	left: 50%;
+    top: 50%;
+    color:#fff;
+    transform: translate(-50%,-50%);
+	font-size: 22px;
+	line-height: 25px;
+	font-family: 'Exo2-Bold';
+	letter-spacing: 0.2px;
+	text-transform: uppercase;
+	display: inline-block;
+	width: 100%;
+	text-shadow: 1px 1px #70aa0a,
+	1px 1px #70aa0a,-1px -1px #70aa0a,-1px -1px #70aa0a,
+	-1px 1px #70aa0a,1px -1px #70aa0a,-1px 1px #70aa0a,
+	0px -1px #70aa0a,0px 0px 0px rgba(0,0,0,0.3),
+	0px 0px 0px rgba(0,0,0,0.3),0px 0px 0px rgba(0,0,0,0.3),
+	0px 0px 0px rgba(0,0,0,0.3);	
 }
 .df-imgbutoon{
 	width: 100%;
@@ -1066,6 +1097,9 @@ div[data-val]:hover{
 	z-index: 1;
 	left:0;
 	top:0;
+	img{
+		width: 100%;
+	}
 }
 @media only screen and (min-width : 320px) {
 	

diff --git a/spasibo.php b/spasibo.php
@@ -26,12 +26,11 @@
 						Вы можете вставить карту памяти и слушать любимую музыку, либо просто включить радио. Качество звука на очень высоком уровне, прекрасно слышны как басы, так и высокие частоты.
 					</div>
 				</div>
-
-
-				<div class="df-butoon">
-					<a href="" class="df-butlink">some text</a>
-					<span class="df-imgbutoon"><img src="img/dfbgfon.png" alt="" ></span>
-				</div>
+				
+				<!-- <div class="df-butn">				
+					<a href="" class="df-butlink">заказать </a>
+					<span class="df-imgbutoon"><img src="img/dfbgfon.png" alt="" class="img-responsive" ></span>				
+				</div> -->
 			</div>
 		</div>
 	</div>
